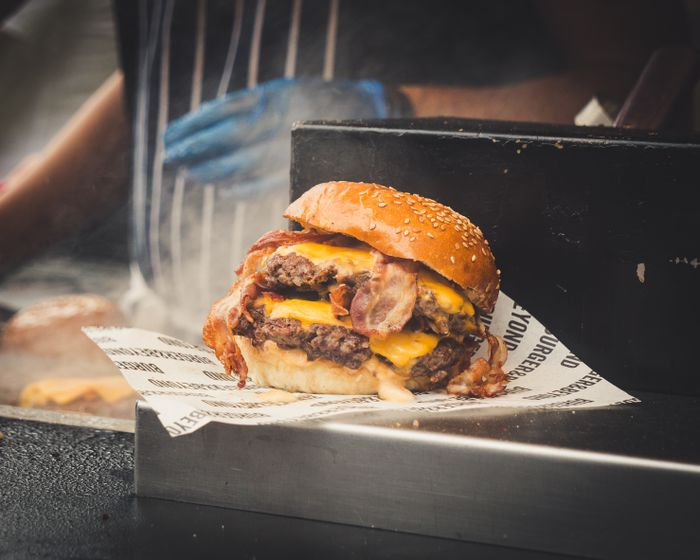
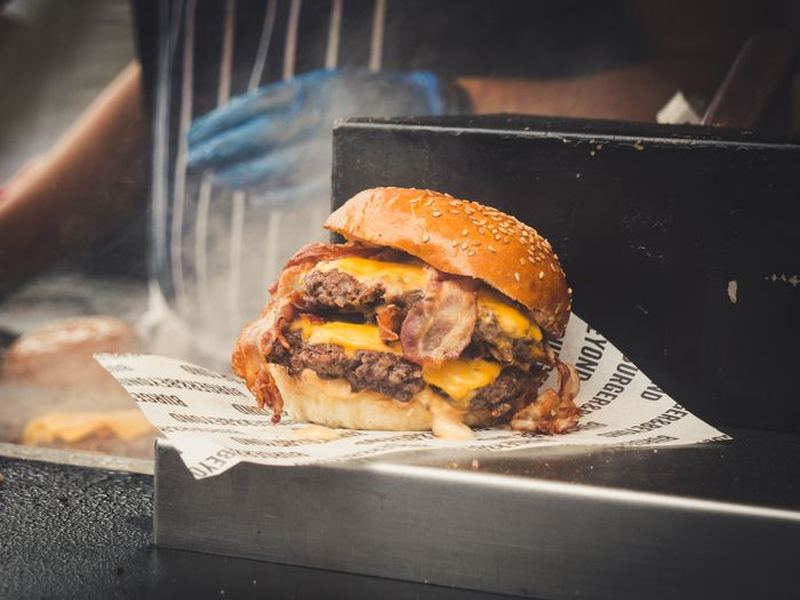
fix: padroniza fotos do cardapio (fundo consistente + 800x600 + compressao)
X-Vegetariano trocado por uma foto de fundo escuro (igual X-Bacon,
Refrigerante e Suco) — a foto anterior (mesa de madeira + papel
ilustrado) destoava das demais.

As 8 fotos agora sao recortadas pro mesmo formato 4:3 (800x600, igual ao
.card-img do CSS) e comprimidas em qualidade uniforme, deixando o
cardapio visualmente consistente em vez de cara de colagem.

diff --git a/frontend/images/seed/CREDITS.md b/frontend/images/seed/CREDITS.md
@@ -10,7 +10,7 @@ mantidos por transparência acadêmica, não por obrigação de licença.
 | `x-salada.jpg` | [Close-up Photo of a Cheeseburger](https://www.pexels.com/photo/close-up-photo-of-a-cheeseburger-1556698/) | Daniel Reche |
 | `x-bacon.jpg` | [Ham and Bacon Burger](https://www.pexels.com/photo/ham-and-bacon-burger-2983098/) | Jonathan Borba |
 | `x-tudo.jpg` | [Cheeseburger on Table](https://www.pexels.com/photo/cheeseburger-on-table-2089717/) | Adrian Dorobantu |
-| `x-vegetariano.jpg` | [Burger With Lettuce and Tomato](https://www.pexels.com/photo/burger-with-lettuce-and-tomato-3607284/) | Grooveland Designs |
+| `x-vegetariano.jpg` | [Burger With Green Leafy Vegetable and Cheese on Black Plate](https://www.pexels.com/photo/burger-with-green-leafy-vegetable-and-cheese-on-black-plate-1199958/) | Valeria Boltneva |
 | `batata-frita.jpg` | [Close Up Photo of French Fries](https://www.pexels.com/photo/close-up-photo-of-french-fries-4109234/) | Polina Tankilevitch |
 | `onion-rings.jpg` | [Onion rings and ketchup with chili peppers on blue surface](https://www.pexels.com/photo/onion-rings-and-ketchup-with-chili-peppers-on-blue-surface-6941051/) | Alena Shekhovtcova |
 | `refrigerante.jpg` | [Glass of Soda With Ice Cubes](https://www.pexels.com/photo/glass-of-soda-with-ice-cubes-8880742/) | cottonbro studio |
@@ -18,3 +18,9 @@ mantidos por transparência acadêmica, não por obrigação de licença.
 
 `placeholder.svg` continua sendo uma ilustração própria (sem foto associada), usada
 como imagem padrão para produtos cadastrados sem upload.
+
+## Padronização
+
+Todas as fotos são recortadas para 800x600 (4:3, igual ao `.card-img` do CSS) e
+comprimidas em JPEG qualidade 78 — mantém o cardápio visualmente consistente e
+cada arquivo abaixo de ~65 KB.
